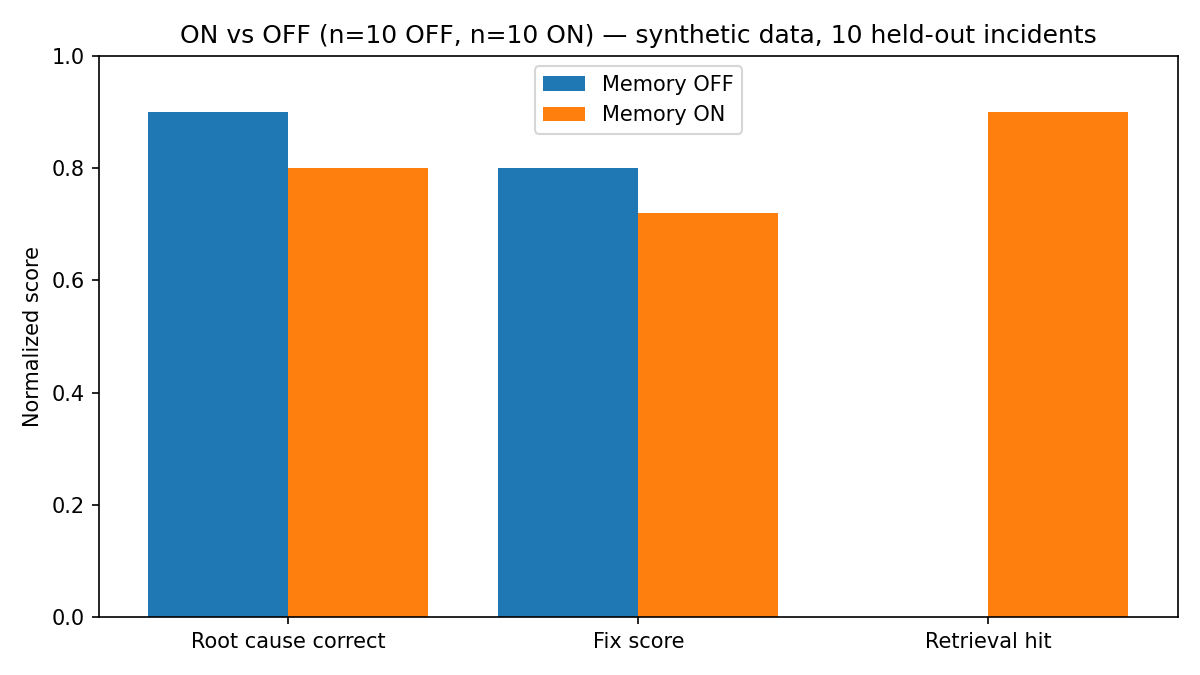
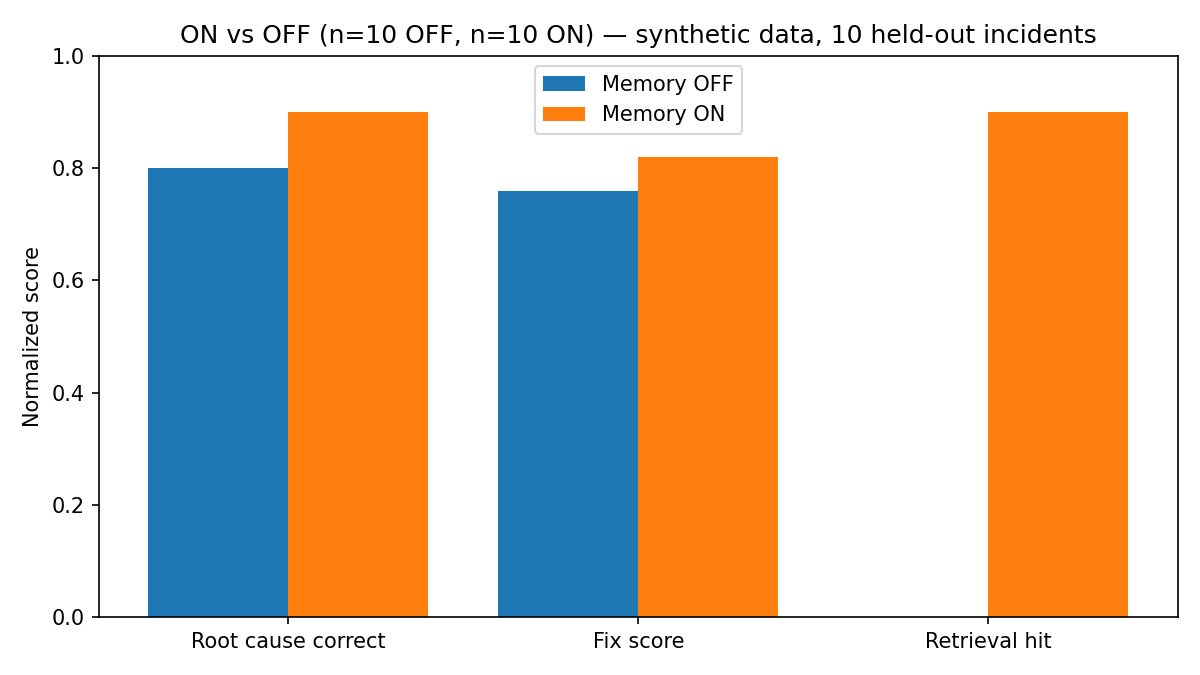
Re-run eval after validator and side-effect update; README features and results

Changed region(s): [[0.1233, 0.1556, 0.37, 0.2489], [0.4008, 0.2178, 0.6475, 0.3422]]

diff --git a/README.md b/README.md
@@ -9,7 +9,10 @@ It shows the recalled incident and recorded fix alongside a diagnosis, so engine
 - Compares a diagnosis with and without incident memory.
 - Shows recalled incidents, a best-match card, and a heuristic confidence label.
 - Saves resolved postmortems and Worked / Didn't work feedback to Hindsight.
-- Includes a held-out evaluation script and five offline core tests.
+- Includes Memory Insights, feedback learning, and confirmed supersession records.
+- Includes offline unit tests and proof scripts for feedback and supersession behavior.
+
+All incident data in this project is synthetic. We do not claim to outperform commercial incident tools.
 
 ## Demo walkthrough (about 2 minutes)
 
@@ -33,15 +36,16 @@ For each alert:
 
 1. Compare the **Without memory** and **With memory** answers.
 2. In the With-memory column, inspect **Best match**: it shows an incident ID, service, root cause, fix, and High / Medium / Low confidence. The label is a heuristic based on the cited incident and recall order.
-3. Click **Worked** or **Didn't work** under the memory answer. Optionally enter a note first. A success message confirms the feedback record was retained.
-4. Open **What the agent learned** and click **Reflect now** to request a Hindsight reflection on the current alert.
-5. At the bottom, enter the root cause and fix under **Mark resolved**, then click **Save postmortem**.
+3. Click **Worked** or **Didn't work** under the memory answer. Optionally enter a note first. A success message confirms the feedback record was retained. The form also has an optional **Side effect observed** field.
+4. In **Memory Insights**, ask a question in **Ask the Memory** or review the recurring-problem card. The card reports counts among the recalled incidents.
+5. Open **What the agent learned** and click **Reflect now** to request a Hindsight reflection on the current alert.
+6. At the bottom, enter the root cause and fix under **Mark resolved**, then click **Save postmortem**. If the app suggests that an older incident is outdated, review the reason and click **Confirm outdated** to save the relationship, or **Dismiss** to ignore it.
 
 ## How Hindsight memory is used
 
 The app stores records in the `oncall-v3` bank.
 
-- **Retain:** `seed.py:build_incident_document()` formats the 40 synthetic postmortems, and `seed.py:main()` retains them with stable incident IDs. In `app.py`, the **Mark resolved** form calls `Hindsight.retain()` with a timestamp-based unique incident ID and the same text field layout. The **Worked / Didn't work** buttons also call `retain()` with a `feedback-<timestamp>` document ID and the alert, suggested fix, cited incident, outcome, and note.
+- **Retain:** `oncall_memory.memory:build_incident_document()` formats the 40 synthetic postmortems; `seed.py:main()` retains them with stable incident IDs. In `app.py`, **Mark resolved** calls `Hindsight.retain()` with the alert, entered root cause and fix, and a timestamp-based unique incident ID. The **Worked / Didn't work** controls retain the alert, suggested fix, cited incident, outcome, note, and optional side-effect note under a unique feedback document ID.
 - **Recall:** `oncall_memory.memory:_recall_with_timeout()` calls `Hindsight.recall()` for the new alert. `oncall_memory.parsing:recalled_memory()` extracts fields and `parse_feedback()` separates feedback records.
 - **Reflect:** `oncall_memory.memory:_recall_with_timeout()` calls `Hindsight.reflect()` before `oncall_memory.prompts:compress_reflection()` builds the answer. The **Reflect now** control calls `oncall_memory.memory:reflect_now()` through the `core.py` compatibility shim.
 - **Other banks:** `eval/run_eval.py` evaluates the main `oncall-v3` bank and can seed `oncall-eval-10` and `oncall-eval-20`. `oncall-eval-0` is the empty-bank learning-curve point.
@@ -77,16 +81,18 @@ In `app.py`, the no-memory diagnosis and full memory diagnosis run concurrently.
 - `oncall_memory/config.py` — environment settings, bank names, model names, and timeout/retry constants.
 - `oncall_memory/llm.py` — Groq calls, retries, deadline, and fallback model.
 - `oncall_memory/memory.py` — Hindsight client, retain template, recall, reflect, and timeouts.
-- `oncall_memory/parsing.py` — incident and feedback field extraction.
+- `oncall_memory/parsing.py` — incident, feedback, side-effect, and supersession extraction; feedback ranking and track-record helpers.
 - `oncall_memory/prompts.py` — prompt builders and answer formatting.
 - `oncall_memory/validation.py` — source validation and deterministic fallback.
 - `oncall_memory/diagnose.py` — public diagnosis and reflection pipelines.
-- `seed.py` — shared incident document template and seed CLI.
+- `seed.py` — seed CLI; imports the shared `build_incident_document()` template from `oncall_memory/memory.py`.
 - `data/incidents.json` — 40 synthetic incidents.
 - `data/test_incidents.json` — 10 held-out cases and expected root cause, fix, and relevant incident IDs.
 - `eval/run_eval.py` — LLM-judged and retrieval evaluation; writes summaries, charts, and per-incident results under `eval/results/`.
+- `eval/feedback_proof.py` — demonstrates failed-fix feedback behavior and writes `eval/results/feedback_proof.json`.
+- `eval/supersession_proof.py` — checks the effect of a confirmed supersession record and writes `eval/results/supersession_proof.json`.
 - `eval/results/` — saved JSON, CSV, and chart outputs from an evaluation run.
-- `tests/test_core.py` — five unit tests that mock external calls.
+- `tests/test_core.py` — unit tests for diagnosis, validation, feedback, insights, supersession, and consequence memory; external calls are mocked.
 - `requirements.txt` — Python dependencies.
 - `.env.example` — environment variable names and local Hindsight URL example.
 - `docs/screenshots/` — UI screenshots with descriptive filenames.
@@ -136,9 +142,47 @@ streamlit run app.py
 - **Diagnose** — computes missing answers for that alert. Results are cached in Streamlit session state by exact alert text; changing the memory toggle does not recompute an answer already cached for that alert.
 - **Best match** — shows the cited recalled incident when its fields are available. High means the cited incident is first in recall order; Medium means it is validated but later; Low means no valid close citation was found. This is a heuristic, not a calibrated probability.
 - **Worked / Didn't work** — retains feedback about the current memory answer. The note is optional.
+- **Side effect observed** — optional feedback text saved with the outcome record.
+- **Memory Insights** — use **Ask the Memory** for a cited answer, or inspect the recurring-problem card computed from recalled service, cause, and MTTR fields.
 - **Recalled memories / Raw recalled facts** — show extracted incidents and the source text returned by recall.
 - **What the agent learned → Reflect now** — asks Hindsight to reflect on the current alert and displays its response.
 - **Mark resolved → Save postmortem** — retains the current alert, entered root cause, and fix with a unique document ID.
+- **Confirm outdated / Dismiss** — after a new postmortem, confirm a proposed supersession record or dismiss the suggestion. The record is retained only after confirmation.
+
+## Memory features
+
+### Worked and failed fixes
+
+The **Didn't work** feedback demotes the matching incident or fix for later similar alerts. The answer says which fix failed and what other recalled incident it is trying instead. **Worked** feedback raises that fix's ranking, and the Best match card shows **Confirmed to work N times** when there is recorded evidence. The ranking and feedback association are implemented in `oncall_memory/parsing.py` and `oncall_memory/diagnose.py`; answer validation and the failed-fix notice are in `oncall_memory/validation.py`; the controls are in `app.py`.
+
+### Memory Insights
+
+The **Ask the Memory** box answers from recalled records and cites incident IDs. It rejects IDs that were not in the recalled facts. The UI is in `app.py`; `oncall_memory/diagnose.py` recalls the records and builds the answer, and `oncall_memory/validation.py` checks its citations.
+
+The recurring-problem card computes its numbers in code. It reports the most common recalled service, the most common root cause for that service, and average MTTR from that service's recalled records. The card labels its scope as **among N recalled incidents**. Its calculation is `compute_recurring_insights()` in `oncall_memory/diagnose.py`; the card is rendered in `app.py`.
+
+### Self-correcting memory
+
+After **Save postmortem**, the app can suggest that a recalled older incident is superseded or contradicted by the new postmortem. It does not save that relationship automatically. An engineer must click **Confirm outdated**; **Dismiss** drops the suggestion. Confirmed records are parsed and associated in `oncall_memory/parsing.py`, considered during diagnosis and validation in `oncall_memory/diagnose.py` and `oncall_memory/validation.py`, and shown in `app.py`. A confirmed outdated incident is marked with a badge and is not accepted as the Best match.
+
+### Consequence memory
+
+The Best match card shows **Track record: worked k/n** when feedback exists for that fix. If a recalled incident has a recorded side effect, the card shows **Known side effect** with its incident ID. Neither is inferred: the track record comes from recalled feedback and the warning comes from that incident's recalled `side_effects` field. About 15 of the 40 synthetic incidents have a side effect recorded. The shared seed template is `build_incident_document()` in `oncall_memory/memory.py`; parsing and calculations are in `oncall_memory/parsing.py`; the card and optional feedback note are in `app.py`.
+
+## What is verified and what is not
+
+Unit tests cover all four features using mocked external calls. The tests check feedback-based ranking, recurring insight calculations, citation validation, supersession handling, and recorded side effects. They do not prove behavior against a live Hindsight service.
+
+`eval/feedback_proof.py` has one run in which the Best match moved away from a fix marked **Didn't work**. That run reused a bank, so it was not a clean proof. `eval/supersession_proof.py` showed the outdated badge only after the supersession record was recalled and made the old incident ineligible for Best match. The new incident already ranked first by similarity before the record, so the Best match change itself is **not** attributed to the supersession record.
+
+Memory Insights and consequence memory have not been checked with a proof script. Both proof scripts use a fresh timestamped bank by default. Use `--bank BANK_NAME` to choose a bank instead. They seed incidents and call the configured Hindsight and Groq services, so run them with working credentials and network access:
+
+```text
+python eval/feedback_proof.py
+python eval/supersession_proof.py
+python eval/feedback_proof.py --bank my-feedback-proof
+python eval/supersession_proof.py --bank my-supersession-proof
+```
 
 ## How to check everything works
 
@@ -148,7 +192,7 @@ Run the offline unit tests:
 pytest
 ```
 
-Expected: **5 passed**. These tests mock Hindsight and Groq-facing logic; they do not require network access.
+The tests mock Hindsight and Groq-facing logic; they do not require network access. The README's feature verification section describes which features they cover.
 
 Check the seed connection with a small subset, then run the app and diagnose one of the example alerts above:
 
@@ -179,17 +223,17 @@ Results are written to `eval/results/results.json` and `eval/results/per_inciden
 
 ## Evaluation results
 
-Quick mode evaluated 10 held-out synthetic incidents, with 0 errored runs.
+Latest run: quick mode on 10 held-out synthetic incidents, with 0 errored runs.
 
-| Mode | Root cause | Fix score (judge) | Retrieval hit |
+| Mode | Root cause correct | Fix score (judge, 1–5) | Retrieval hit |
 |---|---:|---:|---:|
-| Memory OFF | 10/10 | 38/50 (avg 3.8/5) | n/a |
-| Memory ON (40 incidents) | 8/10 | 34/50 (avg 3.4/5) | 9/10 |
+| Memory OFF | 8/10 | 38/50 (avg 3.8) | n/a |
+| Memory ON (40 incidents) | 9/10 | 41/50 (avg 4.1) | 9/10 |
 
 Learning curve (Memory ON):
 
 - 0 incidents: root cause 0/10 because the answer says “no closely matching incident” instead of guessing; retrieval 2/10.
-- 40 incidents: root cause 8/10; retrieval 9/10.
+- 40 incidents: root cause 9/10; retrieval 9/10.
 - N=10 and N=20 points were not run.
 
 ![Quick mode comparison](eval/results/on_vs_off.png)
@@ -198,9 +242,13 @@ Learning curve (Memory ON):
 
 ### Interpretation
 
-Memory did **not** beat a plain LLM on root-cause accuracy or fix score in this test. The synthetic root causes are common, so an LLM may guess them well, while memory answers are constrained to recalled data. The value shown here is traceability (the answer names a past incident and its recorded fix), 9/10 retrieval, and accuracy rising as memory grows.
+For transparency, before the validator change and data reseed, an earlier quick run scored Memory OFF at 10/10 root cause and 38/50 fix score, and Memory ON at 8/10 and 34/50, with 9/10 retrieval.
 
-Caveats: only 10 test cases, synthetic data, an LLM judge, and a single run. There are no confidence intervals.
+Memory ON is one case ahead in the latest run. The plain-LLM baseline itself moved from 10/10 to 8/10 between runs without a baseline code change, so this gap is within run-to-run noise. Each run has only 10 cases, is a single run, and uses an LLM judge. We do **not** claim memory is more accurate than a plain LLM.
+
+Stable results across these runs are 9/10 retrieval hit. Root-cause accuracy with memory rose from 0/10 to 9/10 as the bank grew from 0 to 40 incidents. Every memory answer names the past incident and its recorded fix.
+
+Caveats: synthetic data, only 10 test cases, an LLM judge, a single run, and no confidence intervals.
 
 ## Known limitations
 
